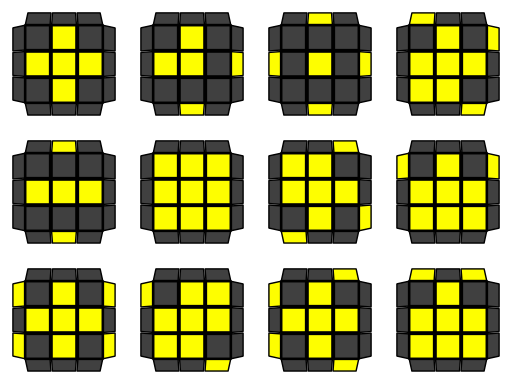
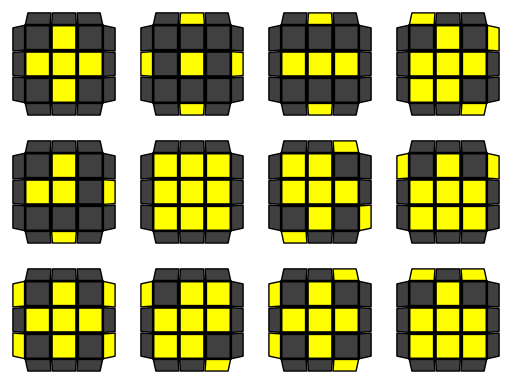
Tweak 2L OLL descriptions

diff --git a/css/2l-oll-min-005.css b/css/2l-oll-min-005.css
@@ -1,1 +1,1 @@
-.s64-2l-oll{background-image:url(../img/2l-oll-s64-05.png);background-repeat:no-repeat;display:block;width:64px;height:64px}.s64-eoll{background-position:0 0}.s64-eoll-a{background-position:-64px 0}.s64-eoll-d{background-position:-128px 0}.s64-eoll-o{background-position:0 -64px}.s64-ocll{background-position:-64px -64px}.s64-ocll-as{background-position:-128px -64px}.s64-ocll-h{background-position:0 -128px}.s64-ocll-l{background-position:-64px -128px}.s64-ocll-pi{background-position:-128px -128px}.s64-ocll-s{background-position:-192px 0}.s64-ocll-t{background-position:-192px -64px}.s64-ocll-u{background-position:-192px -128px}.s96-2l-oll{background-image:url(../img/2l-oll-s96-05.png);background-repeat:no-repeat;display:block;width:96px;height:96px}.s96-eoll{background-position:0 0}.s96-eoll-a{background-position:-96px 0}.s96-eoll-d{background-position:-192px 0}.s96-eoll-o{background-position:0 -96px}.s96-ocll{background-position:-96px -96px}.s96-ocll-as{background-position:-192px -96px}.s96-ocll-h{background-position:0 -192px}.s96-ocll-l{background-position:-96px -192px}.s96-ocll-pi{background-position:-192px -192px}.s96-ocll-s{background-position:-288px 0}.s96-ocll-t{background-position:-288px -96px}.s96-ocll-u{background-position:-288px -192px}.s128-2l-oll{background-image:url(../img/2l-oll-s128-05.png);background-repeat:no-repeat;display:block;width:128px;height:128px}.s128-eoll{background-position:0 0}.s128-eoll-a{background-position:-128px 0}.s128-eoll-d{background-position:-256px 0}.s128-eoll-o{background-position:0 -128px}.s128-ocll{background-position:-128px -128px}.s128-ocll-as{background-position:-256px -128px}.s128-ocll-h{background-position:0 -256px}.s128-ocll-l{background-position:-128px -256px}.s128-ocll-pi{background-position:-256px -256px}.s128-ocll-s{background-position:-384px 0}.s128-ocll-t{background-position:-384px -128px}.s128-ocll-u{background-position:-384px -256px}
+.s64-2l-oll{background-image:url(../img/2l-oll-s64-05.png);background-repeat:no-repeat;display:block;width:64px;height:64px}.s64-eoll{background-position:0 0}.s64-eoll-d{background-position:-64px 0}.s64-eoll-i{background-position:-128px 0}.s64-eoll-l{background-position:0 -64px}.s64-ocll{background-position:-64px -64px}.s64-ocll-as{background-position:-128px -64px}.s64-ocll-h{background-position:0 -128px}.s64-ocll-l{background-position:-64px -128px}.s64-ocll-pi{background-position:-128px -128px}.s64-ocll-s{background-position:-192px 0}.s64-ocll-t{background-position:-192px -64px}.s64-ocll-u{background-position:-192px -128px}.s96-2l-oll{background-image:url(../img/2l-oll-s96-05.png);background-repeat:no-repeat;display:block;width:96px;height:96px}.s96-eoll{background-position:0 0}.s96-eoll-d{background-position:-96px 0}.s96-eoll-i{background-position:-192px 0}.s96-eoll-l{background-position:0 -96px}.s96-ocll{background-position:-96px -96px}.s96-ocll-as{background-position:-192px -96px}.s96-ocll-h{background-position:0 -192px}.s96-ocll-l{background-position:-96px -192px}.s96-ocll-pi{background-position:-192px -192px}.s96-ocll-s{background-position:-288px 0}.s96-ocll-t{background-position:-288px -96px}.s96-ocll-u{background-position:-288px -192px}.s128-2l-oll{background-image:url(../img/2l-oll-s128-05.png);background-repeat:no-repeat;display:block;width:128px;height:128px}.s128-eoll{background-position:0 0}.s128-eoll-d{background-position:-128px 0}.s128-eoll-i{background-position:-256px 0}.s128-eoll-l{background-position:0 -128px}.s128-ocll{background-position:-128px -128px}.s128-ocll-as{background-position:-256px -128px}.s128-ocll-h{background-position:0 -256px}.s128-ocll-l{background-position:-128px -256px}.s128-ocll-pi{background-position:-256px -256px}.s128-ocll-s{background-position:-384px 0}.s128-ocll-t{background-position:-384px -128px}.s128-ocll-u{background-position:-384px -256px}

diff --git a/css/2l-oll-min.css b/css/2l-oll-min.css
@@ -1,1 +1,1 @@
-.s64-2l-oll{background-image:url(../img/2l-oll-s64-05.png);background-repeat:no-repeat;display:block;width:64px;height:64px}.s64-eoll{background-position:0 0}.s64-eoll-a{background-position:-64px 0}.s64-eoll-d{background-position:-128px 0}.s64-eoll-o{background-position:0 -64px}.s64-ocll{background-position:-64px -64px}.s64-ocll-as{background-position:-128px -64px}.s64-ocll-h{background-position:0 -128px}.s64-ocll-l{background-position:-64px -128px}.s64-ocll-pi{background-position:-128px -128px}.s64-ocll-s{background-position:-192px 0}.s64-ocll-t{background-position:-192px -64px}.s64-ocll-u{background-position:-192px -128px}.s96-2l-oll{background-image:url(../img/2l-oll-s96-05.png);background-repeat:no-repeat;display:block;width:96px;height:96px}.s96-eoll{background-position:0 0}.s96-eoll-a{background-position:-96px 0}.s96-eoll-d{background-position:-192px 0}.s96-eoll-o{background-position:0 -96px}.s96-ocll{background-position:-96px -96px}.s96-ocll-as{background-position:-192px -96px}.s96-ocll-h{background-position:0 -192px}.s96-ocll-l{background-position:-96px -192px}.s96-ocll-pi{background-position:-192px -192px}.s96-ocll-s{background-position:-288px 0}.s96-ocll-t{background-position:-288px -96px}.s96-ocll-u{background-position:-288px -192px}.s128-2l-oll{background-image:url(../img/2l-oll-s128-05.png);background-repeat:no-repeat;display:block;width:128px;height:128px}.s128-eoll{background-position:0 0}.s128-eoll-a{background-position:-128px 0}.s128-eoll-d{background-position:-256px 0}.s128-eoll-o{background-position:0 -128px}.s128-ocll{background-position:-128px -128px}.s128-ocll-as{background-position:-256px -128px}.s128-ocll-h{background-position:0 -256px}.s128-ocll-l{background-position:-128px -256px}.s128-ocll-pi{background-position:-256px -256px}.s128-ocll-s{background-position:-384px 0}.s128-ocll-t{background-position:-384px -128px}.s128-ocll-u{background-position:-384px -256px}
+.s64-2l-oll{background-image:url(../img/2l-oll-s64-05.png);background-repeat:no-repeat;display:block;width:64px;height:64px}.s64-eoll{background-position:0 0}.s64-eoll-d{background-position:-64px 0}.s64-eoll-i{background-position:-128px 0}.s64-eoll-l{background-position:0 -64px}.s64-ocll{background-position:-64px -64px}.s64-ocll-as{background-position:-128px -64px}.s64-ocll-h{background-position:0 -128px}.s64-ocll-l{background-position:-64px -128px}.s64-ocll-pi{background-position:-128px -128px}.s64-ocll-s{background-position:-192px 0}.s64-ocll-t{background-position:-192px -64px}.s64-ocll-u{background-position:-192px -128px}.s96-2l-oll{background-image:url(../img/2l-oll-s96-05.png);background-repeat:no-repeat;display:block;width:96px;height:96px}.s96-eoll{background-position:0 0}.s96-eoll-d{background-position:-96px 0}.s96-eoll-i{background-position:-192px 0}.s96-eoll-l{background-position:0 -96px}.s96-ocll{background-position:-96px -96px}.s96-ocll-as{background-position:-192px -96px}.s96-ocll-h{background-position:0 -192px}.s96-ocll-l{background-position:-96px -192px}.s96-ocll-pi{background-position:-192px -192px}.s96-ocll-s{background-position:-288px 0}.s96-ocll-t{background-position:-288px -96px}.s96-ocll-u{background-position:-288px -192px}.s128-2l-oll{background-image:url(../img/2l-oll-s128-05.png);background-repeat:no-repeat;display:block;width:128px;height:128px}.s128-eoll{background-position:0 0}.s128-eoll-d{background-position:-128px 0}.s128-eoll-i{background-position:-256px 0}.s128-eoll-l{background-position:0 -128px}.s128-ocll{background-position:-128px -128px}.s128-ocll-as{background-position:-256px -128px}.s128-ocll-h{background-position:0 -256px}.s128-ocll-l{background-position:-128px -256px}.s128-ocll-pi{background-position:-256px -256px}.s128-ocll-s{background-position:-384px 0}.s128-ocll-t{background-position:-384px -128px}.s128-ocll-u{background-position:-384px -256px}

diff --git a/data/2l-oll.js b/data/2l-oll.js
@@ -20,23 +20,24 @@ var algSet = {
   "cases":
   [
     {
-      "id": "Adj",
-      "name": "Adjacent",
+      "id": "Clock",
+      "name": "Clock",
+      "desc": "This case resembles an analog clock at 9 o'clock. It is typically solved using the algorithm(s) for [OLL] #44.",
       "wiki": "",
       "algdb": "",
-      "image": "EOLL-A",
+      "image": "EOLL-L",
       "prob": "4/8",
       "algs" :
       [
         {
-          "alg": "f (R U R' U') f'",
-          "desc": "[Conjugate] of [sexy] - [f: R U R' U']",
+          "alg": "F (U R U' R') F'",
+          "desc": "[Conjugate] of [reverse-sexy] - [F: U R U' R']",
 		  "status": 1,
           "uses": ["2H"],
 		  "vars" :
 		  [
 			{
-			  "alg": "U2 F (U R U' R') F'",
+			  "alg": "U2 f (R U R' U') f'",
 			  "desc": "Executed from a different angle",
 			  "status": 1,
 			  "uses": ["2H"]
@@ -44,14 +45,14 @@ var algSet = {
 		  ]
         },
         {
-          "alg": "U' r U2 R' U' R U' r'",
+          "alg": "U r U2 R' U' R U' r'",
           "desc": "[RFWAS] - Extract 2x2x1 block, [AUF], re-insert block",
 		  "status": 1,
           "uses": [],
 		  "vars" :
 		  [
 			{
-			  "alg": "U' r U2' R' U' R U' r'",
+			  "alg": "U r U2' R' U' R U' r'",
               "desc": "One-handed execution",
 			  "status": 1,
 			  "uses": ["OH"]
@@ -61,16 +62,17 @@ var algSet = {
       ]
     },
     {
-      "id": "Opp",
-      "name": "Opposite",
+      "id": "Line",
+      "name": "Line",
+      "desc": "This case is typically solved using the algorithm for [OLL] #45.",
       "wiki": "",
       "algdb": "",
-      "image": "EOLL-O",
+      "image": "EOLL-I",
       "prob": "2/8",
       "algs" :
       [
         {
-          "alg": "U F (R U R' U') F'",
+          "alg": "F (R U R' U') F'",
           "desc": "[Conjugate] of [sexy] - [F: R U R' U']",
 		  "status": 1,
           "uses": ["2H", "OH"]
@@ -80,6 +82,7 @@ var algSet = {
     {
       "id": "Dot",
       "name": "Dot",
+      "desc": "This case is typically solved using the algorithm(s) for [OLL] #2.",
       "wiki": "",
       "algdb": "",
       "image": "EOLL-D",
@@ -87,10 +90,19 @@ var algSet = {
       "algs" :
       [
         {
-          "alg": "f (R U R' U') f' U' F (R U R' U') F'",
-          "desc": "[EOLL] combination - f [sexy] f', [AUF], F [sexy] F'",
+          "alg": "F (R U R' U') F' f (R U R' U') f'",
+          "desc": "[OLL] combination - F [sexy] F', f [sexy] f'",
 		  "status": 1,
-          "uses": ["2H"]
+          "uses": [],
+		  "vars" :
+		  [
+			{
+			  "alg": "F (R U R' U') S (R U R' U') f'",
+              "desc": "Two-handed execution applies a cancellation",
+              "status": 1,
+			  "uses": ["2H"]
+			}
+		  ]
         },
         {
           "alg": "(r U2 R' U' R U' r') U' (r U2 R' U' R U' r')",
@@ -675,7 +687,7 @@ var algSet = {
           "name": "Edge Orientation",
           "wiki": "EOLL",
           "desc": "These are the 3 [EOLL] cases. There is a 1/8 chance of skipping this step and going straight to [OCLL].",
-          "cases": ["Adj", "Opp", "Dot", "EOLL"]
+          "cases": ["Clock", "Line", "Dot", "EOLL"]
         },
         {
           "id": "corners",

diff --git a/css/2l-oll.css b/css/2l-oll.css
@@ -10,15 +10,15 @@
     background-position: 0 0;
 }
 
-.s64-eoll-a {
+.s64-eoll-d {
     background-position: -64px 0;
 }
 
-.s64-eoll-d {
+.s64-eoll-i {
     background-position: -128px 0;
 }
 
-.s64-eoll-o {
+.s64-eoll-l {
     background-position: 0 -64px;
 }
 
@@ -66,15 +66,15 @@
     background-position: 0 0;
 }
 
-.s96-eoll-a {
+.s96-eoll-d {
     background-position: -96px 0;
 }
 
-.s96-eoll-d {
+.s96-eoll-i {
     background-position: -192px 0;
 }
 
-.s96-eoll-o {
+.s96-eoll-l {
     background-position: 0 -96px;
 }
 
@@ -122,15 +122,15 @@
     background-position: 0 0;
 }
 
-.s128-eoll-a {
+.s128-eoll-d {
     background-position: -128px 0;
 }
 
-.s128-eoll-d {
+.s128-eoll-i {
     background-position: -256px 0;
 }
 
-.s128-eoll-o {
+.s128-eoll-l {
     background-position: 0 -128px;
 }
 

diff --git a/2l-oll.html b/2l-oll.html
@@ -7,7 +7,7 @@
     <link rel="stylesheet" type="text/css" href="css/common-min-018.css" />
     <link rel="stylesheet" type="text/css" href="css/2l-oll-min-005.css" />
     <script type="text/javascript" src="js/common-min-033.js" async></script>
-    <script type="text/javascript" src="data/2l-oll-min-008.js" async></script>
+    <script type="text/javascript" src="data/2l-oll-min-009.js" async></script>
     <title>Loading</title>
   </head>
   <body>
